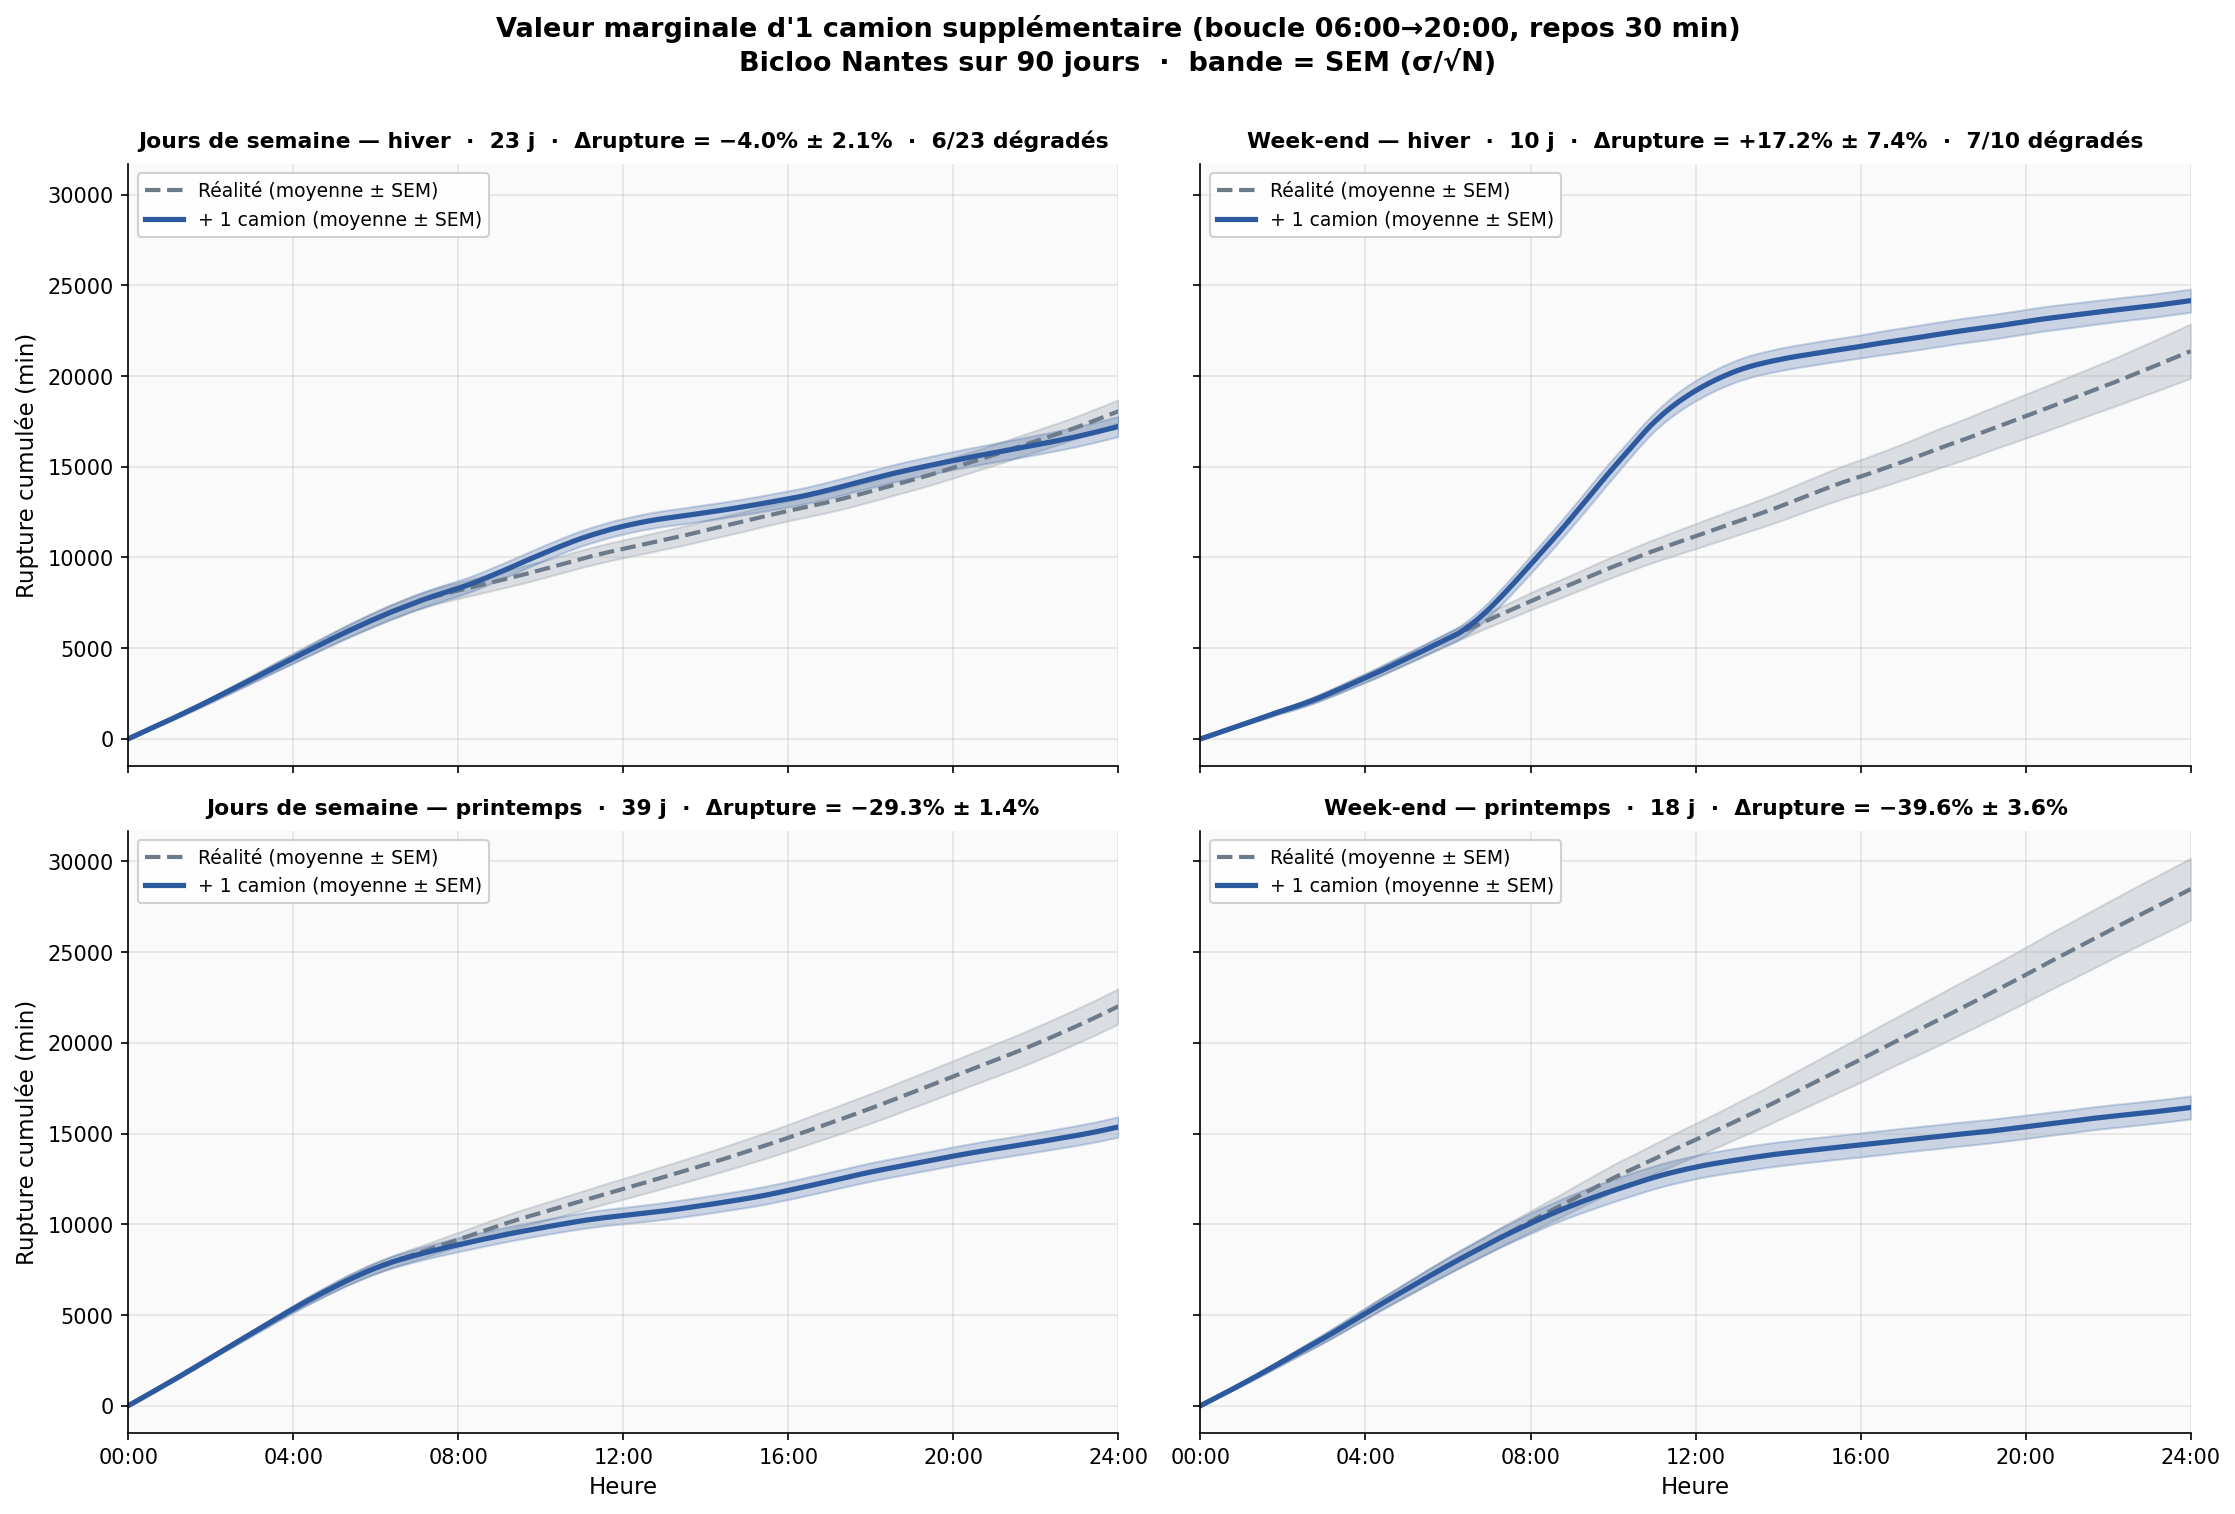
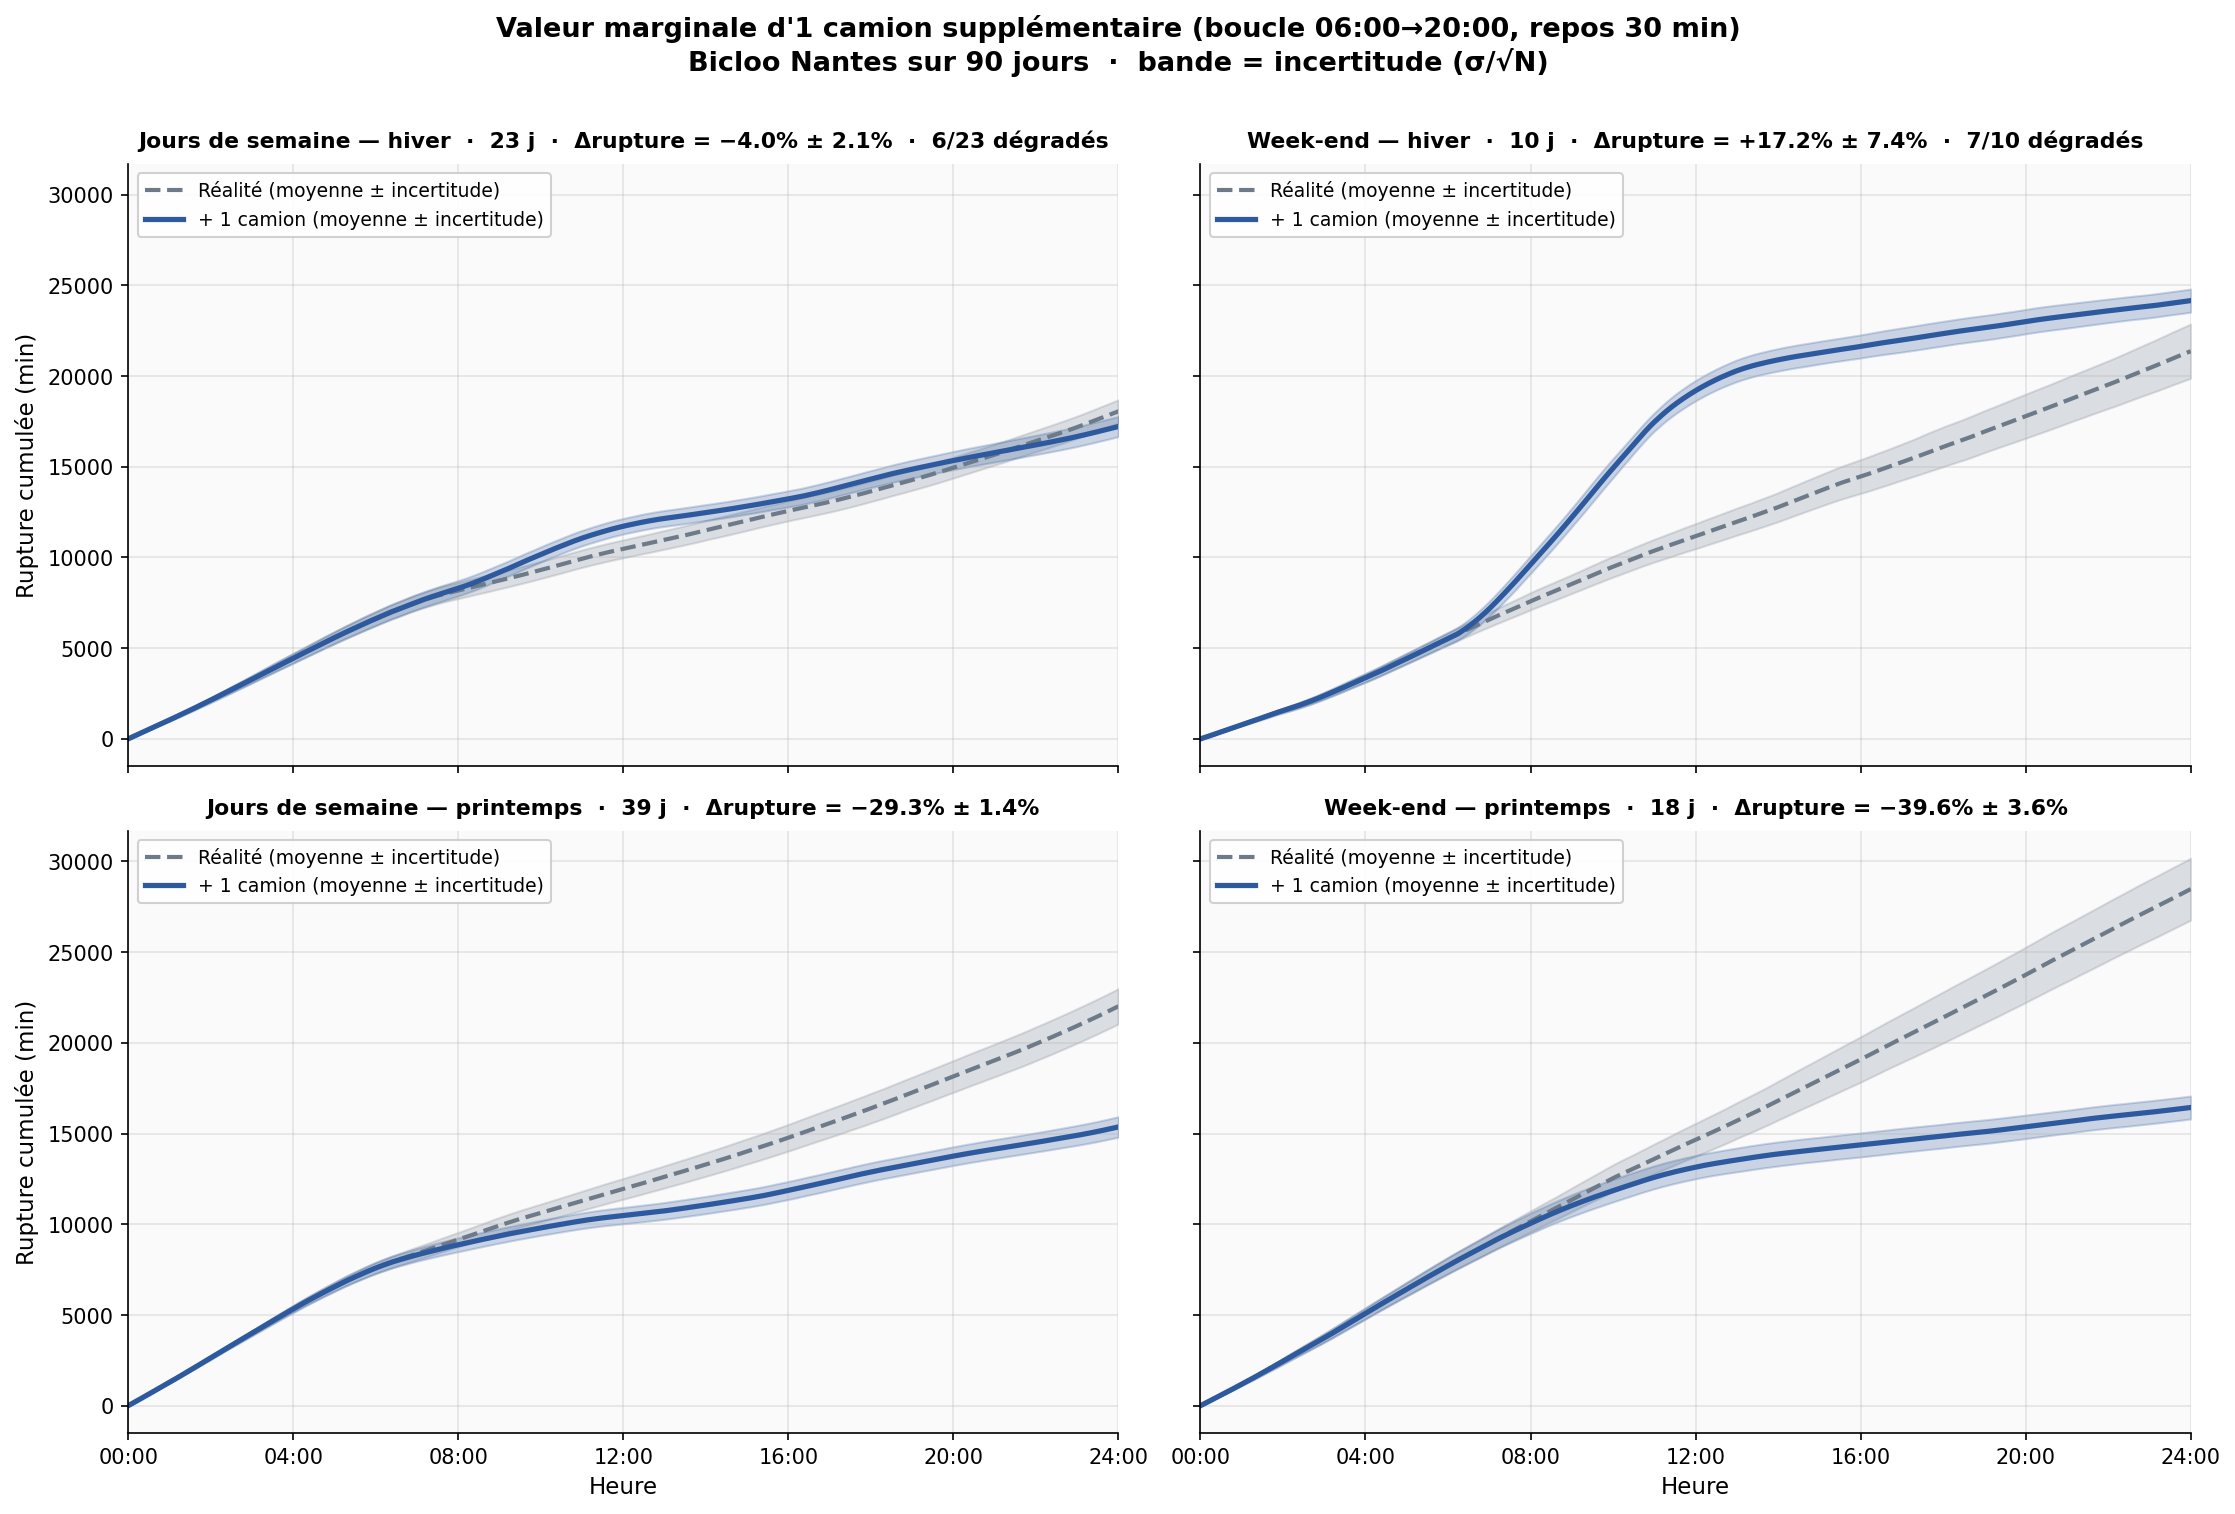
update

diff --git a/renders/simulate_modal.py b/renders/simulate_modal.py
@@ -260,7 +260,7 @@ def render_stratified(results: list[dict], out_path: str) -> str:
         t0 = ref_times[0]
         x = np.array([(t - t0).total_seconds() / 3600.0 for t in ref_times])
 
-        # Moyenne ± SEM (écart-type / √N) — la bande montre la **précision
+        # Moyenne ± incertitude (σ/√N) — la bande montre la **précision
         # sur la moyenne**, pas la dispersion individuelle des jours.
         # Avec N=10, on connaît la moyenne ~3× mieux que la variabilité
         # jour-à-jour. C'est la quantité pertinente pour valider une
@@ -276,13 +276,13 @@ def render_stratified(results: list[dict], out_path: str) -> str:
         ax.fill_between(x, base_mean - base_sem, base_mean + base_sem,
                         color="#6c7a89", alpha=0.22)
         ax.plot(x, base_mean, color="#6c7a89", ls="--", lw=2,
-                label="Réalité (moyenne ± SEM)")
+                label="Réalité (moyenne ± incertitude)")
         ax.fill_between(x, opt_mean - opt_sem, opt_mean + opt_sem,
                         color="#2d5a9e", alpha=0.24)
         ax.plot(x, opt_mean, color="#2d5a9e", ls="-", lw=2.5,
-                label="+ 1 camion (moyenne ± SEM)")
+                label="+ 1 camion (moyenne ± incertitude)")
 
-        # Gain par jour : moyenne, et SEM de la moyenne (= σ/√N).
+        # Gain par jour : moyenne, et incertitude sur la moyenne (= σ/√N).
         per_day_gain = np.array([
             (b - o) / b * 100 if b > 0 else 0.0
             for b, o in zip(base_arr[:, -1], opt_arr[:, -1])
@@ -313,7 +313,7 @@ def render_stratified(results: list[dict], out_path: str) -> str:
     n_ok = sum(len(v) for v in by_stratum.values())
     fig.suptitle(f"Valeur marginale d'1 camion supplémentaire (boucle "
                  f"{TRUCK_START}→{TRUCK_END}, repos {TRUCK_REST_MIN} min)\n"
-                 f"Bicloo Nantes sur {n_ok} jours  ·  bande = SEM (σ/√N)"
+                 f"Bicloo Nantes sur {n_ok} jours  ·  bande = incertitude (σ/√N)"
                  + (f"  ({n_failed} échecs)" if n_failed else ""),
                  fontsize=13, fontweight="bold", y=1.005)
     fig.tight_layout()
@@ -323,7 +323,7 @@ def render_stratified(results: list[dict], out_path: str) -> str:
 
 
 def _print_summary(results: list[dict]) -> None:
-    """Récap chiffré par strate (moyenne ± SEM sur les jours)."""
+    """Récap chiffré par strate (moyenne ± incertitude sur les jours)."""
     import math
     import statistics
     by_stratum: dict[tuple[DayType, Season], list[dict]] = defaultdict(list)
@@ -333,9 +333,9 @@ def _print_summary(results: list[dict]) -> None:
             by_stratum[(_day_type(d), _season(d))].append(r)
     print()
     print(f"  {'Strate':<35}  {'N':>3}  {'Baseline (méd.)':>15}  "
-          f"{'Optimisé (méd.)':>15}  {'Δrupture moy. ± SEM':>21}  {'dégr.':>7}")
+          f"{'Optimisé (méd.)':>15}  {'Δrupture moy. ± incert.':>23}  {'dégr.':>7}")
     print(f"  {'─' * 35}  {'─' * 3}  {'─' * 15}  {'─' * 15}  "
-          f"{'─' * 21}  {'─' * 7}")
+          f"{'─' * 23}  {'─' * 7}")
     for stratum in [(DayType.WD, Season.COLD), (DayType.WE, Season.COLD),
                     (DayType.WD, Season.WARM), (DayType.WE, Season.WARM)]:
         rs = by_stratum.get(stratum, [])
@@ -355,7 +355,7 @@ def _print_summary(results: list[dict]) -> None:
         delta = -gm
         print(f"  {_stratum_label(stratum):<35}  {len(rs):>3}  "
               f"{bm:>11.0f} min  {om:>11.0f} min  "
-              f"{delta:>+10.1f}% ± {gsem:>4.1f}%  {n_bad:>3d}/{len(rs):<3d}")
+              f"{delta:>+12.1f}% ± {gsem:>4.1f}%  {n_bad:>3d}/{len(rs):<3d}")
 
 
 def _save_local_cache(results: list[dict]) -> None:

diff --git a/README.md b/README.md
@@ -51,8 +51,8 @@ Pipeline en quatre étapes : tronquer au jour, filtrer par source, interpoler le
 
 ## TODO
 
+- Ajouter jours feriés comme weekend
 - Critiquer les résultats et la démarche : impact des approximations successives (indépendance Poisson, troncature de Skellam, vitesses OSM réduites, heuristiques d'approximation au lieu d'une résolution exacte) sur la qualité de la tournée.
-- Graphique illustration pour lambda trouvés pour vérifier.
 - Ajouter ref bibliographique :  Bräysy, O. & Gendreau, M. (2005). Vehicle Routing Problem with Time Windows, Part I: Route Construction and Local Search Algorithms. Transportation Science 39(1), 104-118.
 - Ajouter ref bibliographique : Lourenço, H. R., Martin, O. C. & Stützle, T. (2003). Iterated Local Search. In F. Glover & G. Kochenberger (eds.), Handbook of Metaheuristics, vol. 57, pp. 320–353. Kluwer Academic.
 - Ajouter ref bibliographique : Federgruen, A. & Groenevelt, H. (1986). The greedy procedure for resource allocation problems: necessary and sufficient conditions for optimality. Operations Research, 34(6), 909–918. (justifie l'optimalité du glouton dans `targeter/targeter.py`)
